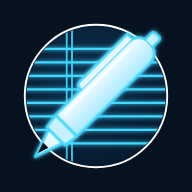
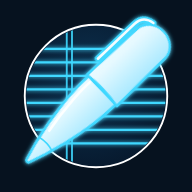
Notis v5: pen redrawn to reference proportions

Changed region(s): [[0.0938, 0.0625, 0.9062, 0.875]]

diff --git a/index.html b/index.html
@@ -10,7 +10,7 @@
 <meta name="mobile-web-app-capable" content="yes">
 <meta name="apple-mobile-web-app-capable" content="yes">
 <meta name="apple-mobile-web-app-title" content="Notis">
-<meta name="jarvis-version" content="notis-v4">
+<meta name="jarvis-version" content="notis-v5">
 <title>Notis</title>
 <link rel="preconnect" href="https://fonts.googleapis.com">
 <link href="https://fonts.googleapis.com/css2?family=Roboto:wght@300;400;500&family=Roboto+Condensed:wght@700&family=Orbitron:wght@700&family=Share+Tech+Mono&family=Rajdhani:wght@600;700&family=Audiowide&family=Teko:wght@500&family=Oxanium:wght@700&display=swap" rel="stylesheet">

diff --git a/src/head.html b/src/head.html
@@ -10,7 +10,7 @@
 <meta name="mobile-web-app-capable" content="yes">
 <meta name="apple-mobile-web-app-capable" content="yes">
 <meta name="apple-mobile-web-app-title" content="Notis">
-<meta name="jarvis-version" content="notis-v4">
+<meta name="jarvis-version" content="notis-v5">
 <title>Notis</title>
 <link rel="preconnect" href="https://fonts.googleapis.com">
 <link href="https://fonts.googleapis.com/css2?family=Roboto:wght@300;400;500&family=Roboto+Condensed:wght@700&family=Orbitron:wght@700&family=Share+Tech+Mono&family=Rajdhani:wght@600;700&family=Audiowide&family=Teko:wght@500&family=Oxanium:wght@700&display=swap" rel="stylesheet">

diff --git a/sw.js b/sw.js
@@ -1,6 +1,6 @@
 /* Notis service worker: app shell cache. HTML = network-first (updates arrive), static = cache-first.
    Voice model files (Mihai, own cache "jarvis-piper-v1") and weather (Open-Meteo) are NOT touched: passed straight to the network. */
-var VERSION='notis-shell-v4';
+var VERSION='notis-shell-v5';
 var SHELL=['./','index.html','manifest.webmanifest',
  'icons/favicon.png','icons/icon-192.png','icons/icon-512.png','icons/icon-maskable-512.png','icons/apple-touch-icon.png'];
 var FONT_HOSTS=/^https:\/\/(fonts\.googleapis\.com|fonts\.gstatic\.com)\//,DSEG=/^https:\/\/cdn\.jsdelivr\.net\/npm\/dseg@/;
